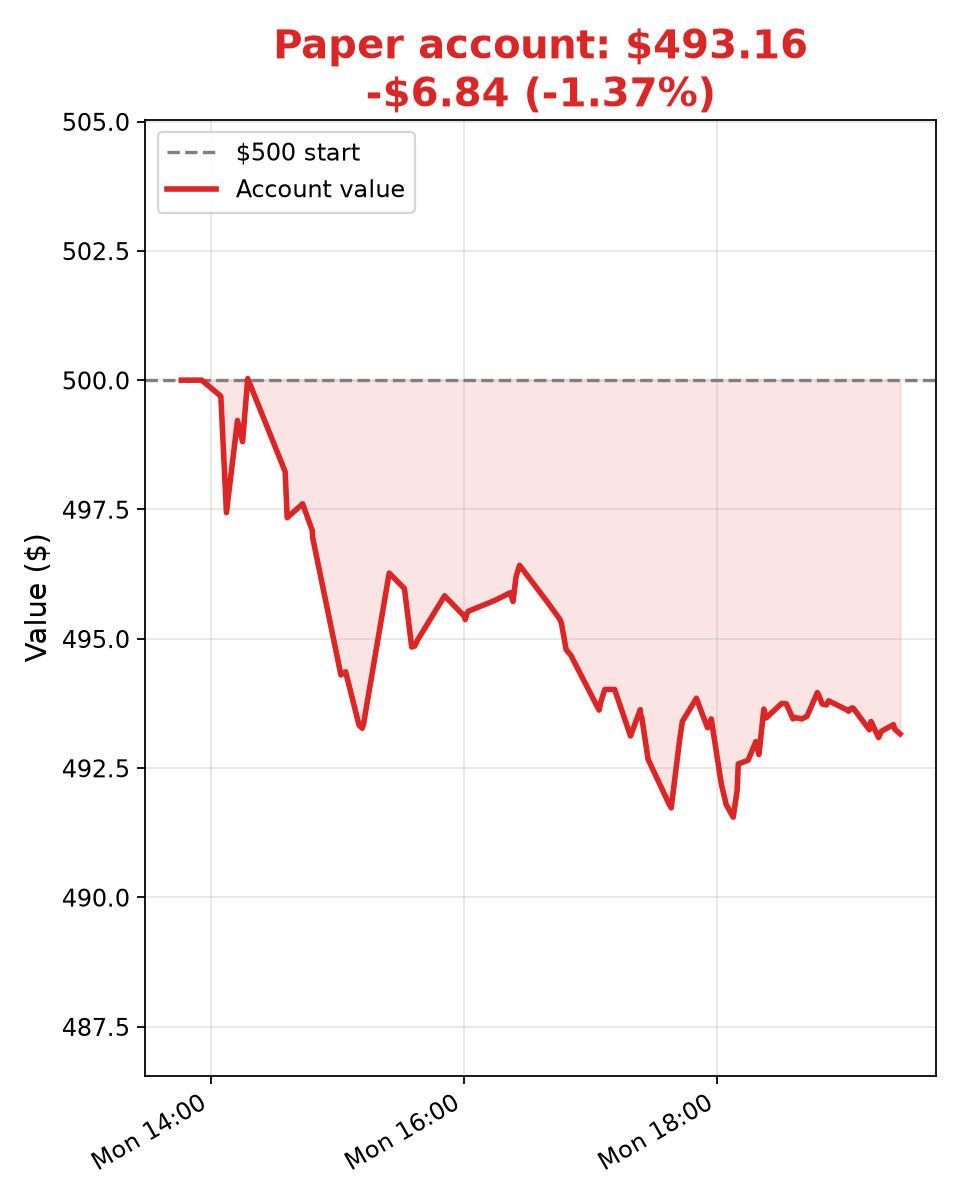
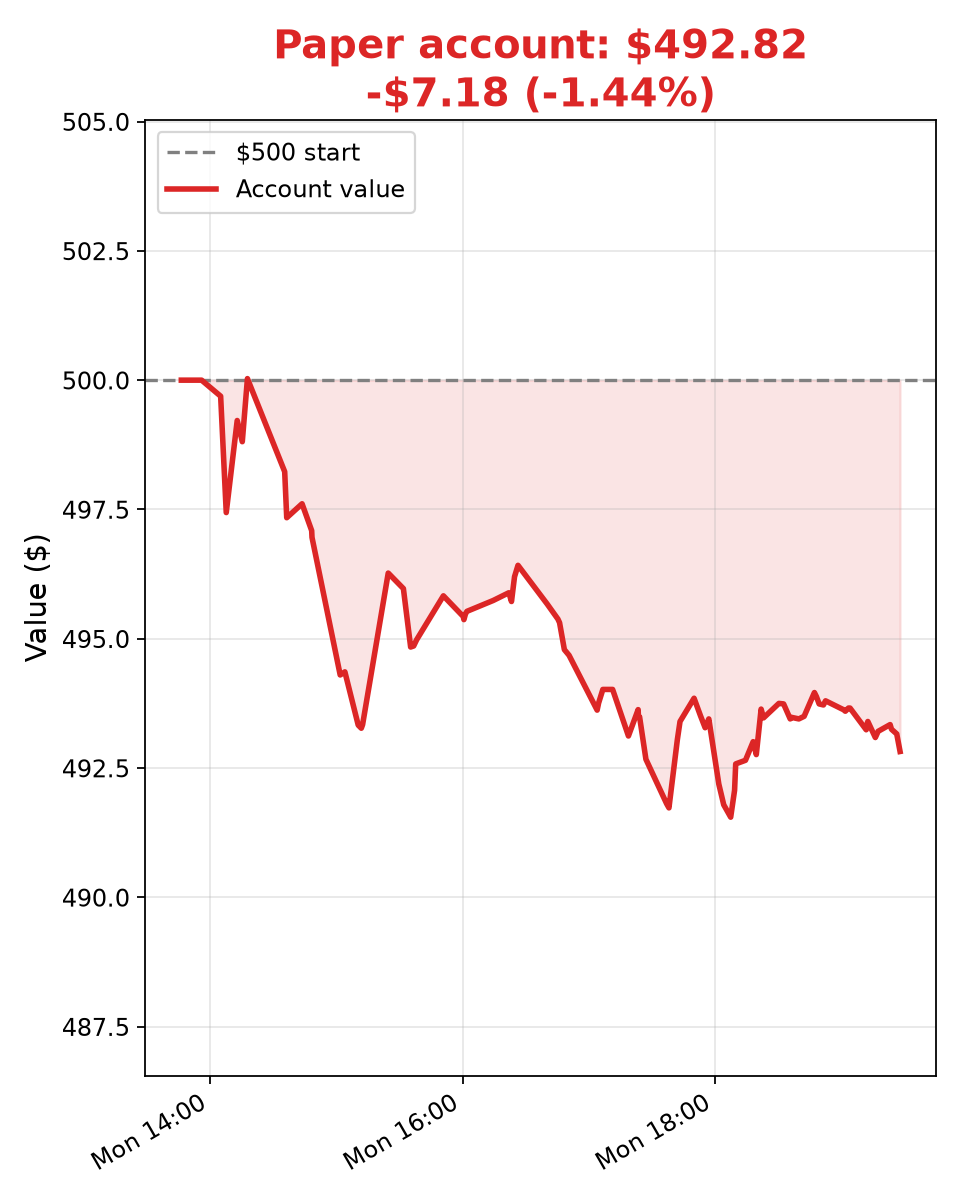
Update 2026-10-12T19:28:24Z

diff --git a/ledger.md b/ledger.md
@@ -127,3 +127,4 @@
 
 - 2026-10-12T19:24:11Z — total $493.25, cash $196.95 (Bot2 mark, 2:24 PM CT, no trade; FRO 58.765, DHT 25.99 marked; no stops/targets hit — FRO flat ~58.77 under ~58.9 after 19:10 rejection, DHT faded back under ~26.0 shelf after 19:21 poke to 26.10; both underwater vs entry, cash idle, no fresh catalyst)
 - 2026-10-12T19:26:41Z — total $493.16, cash $196.95 (Jr mark, 2:26 PM CT, no trade; FRO 58.77, DHT 25.97 marked; no stops/targets hit — FRO drifting 58.72–58.82 under ~58.9 after the 19:10 rejection, DHT faded the 19:21 poke to 26.10 back under the ~26.0 shelf; Jr add condition unmet)
+- 2026-10-12T19:28:16Z — total $492.82, cash $196.95 (Bot4 mark, 2:28 PM CT, no trade; FRO 58.715, DHT 25.935 marked; no stops/targets hit — both drifting to fresh afternoon lows on light volume (FRO 58.72, DHT 25.935, under the ~26.0 shelf), still well above stops 57.90 / 25.40 and under entry; SPY 777.30 near LOD 777.05; cash idle, no fresh catalyst)
